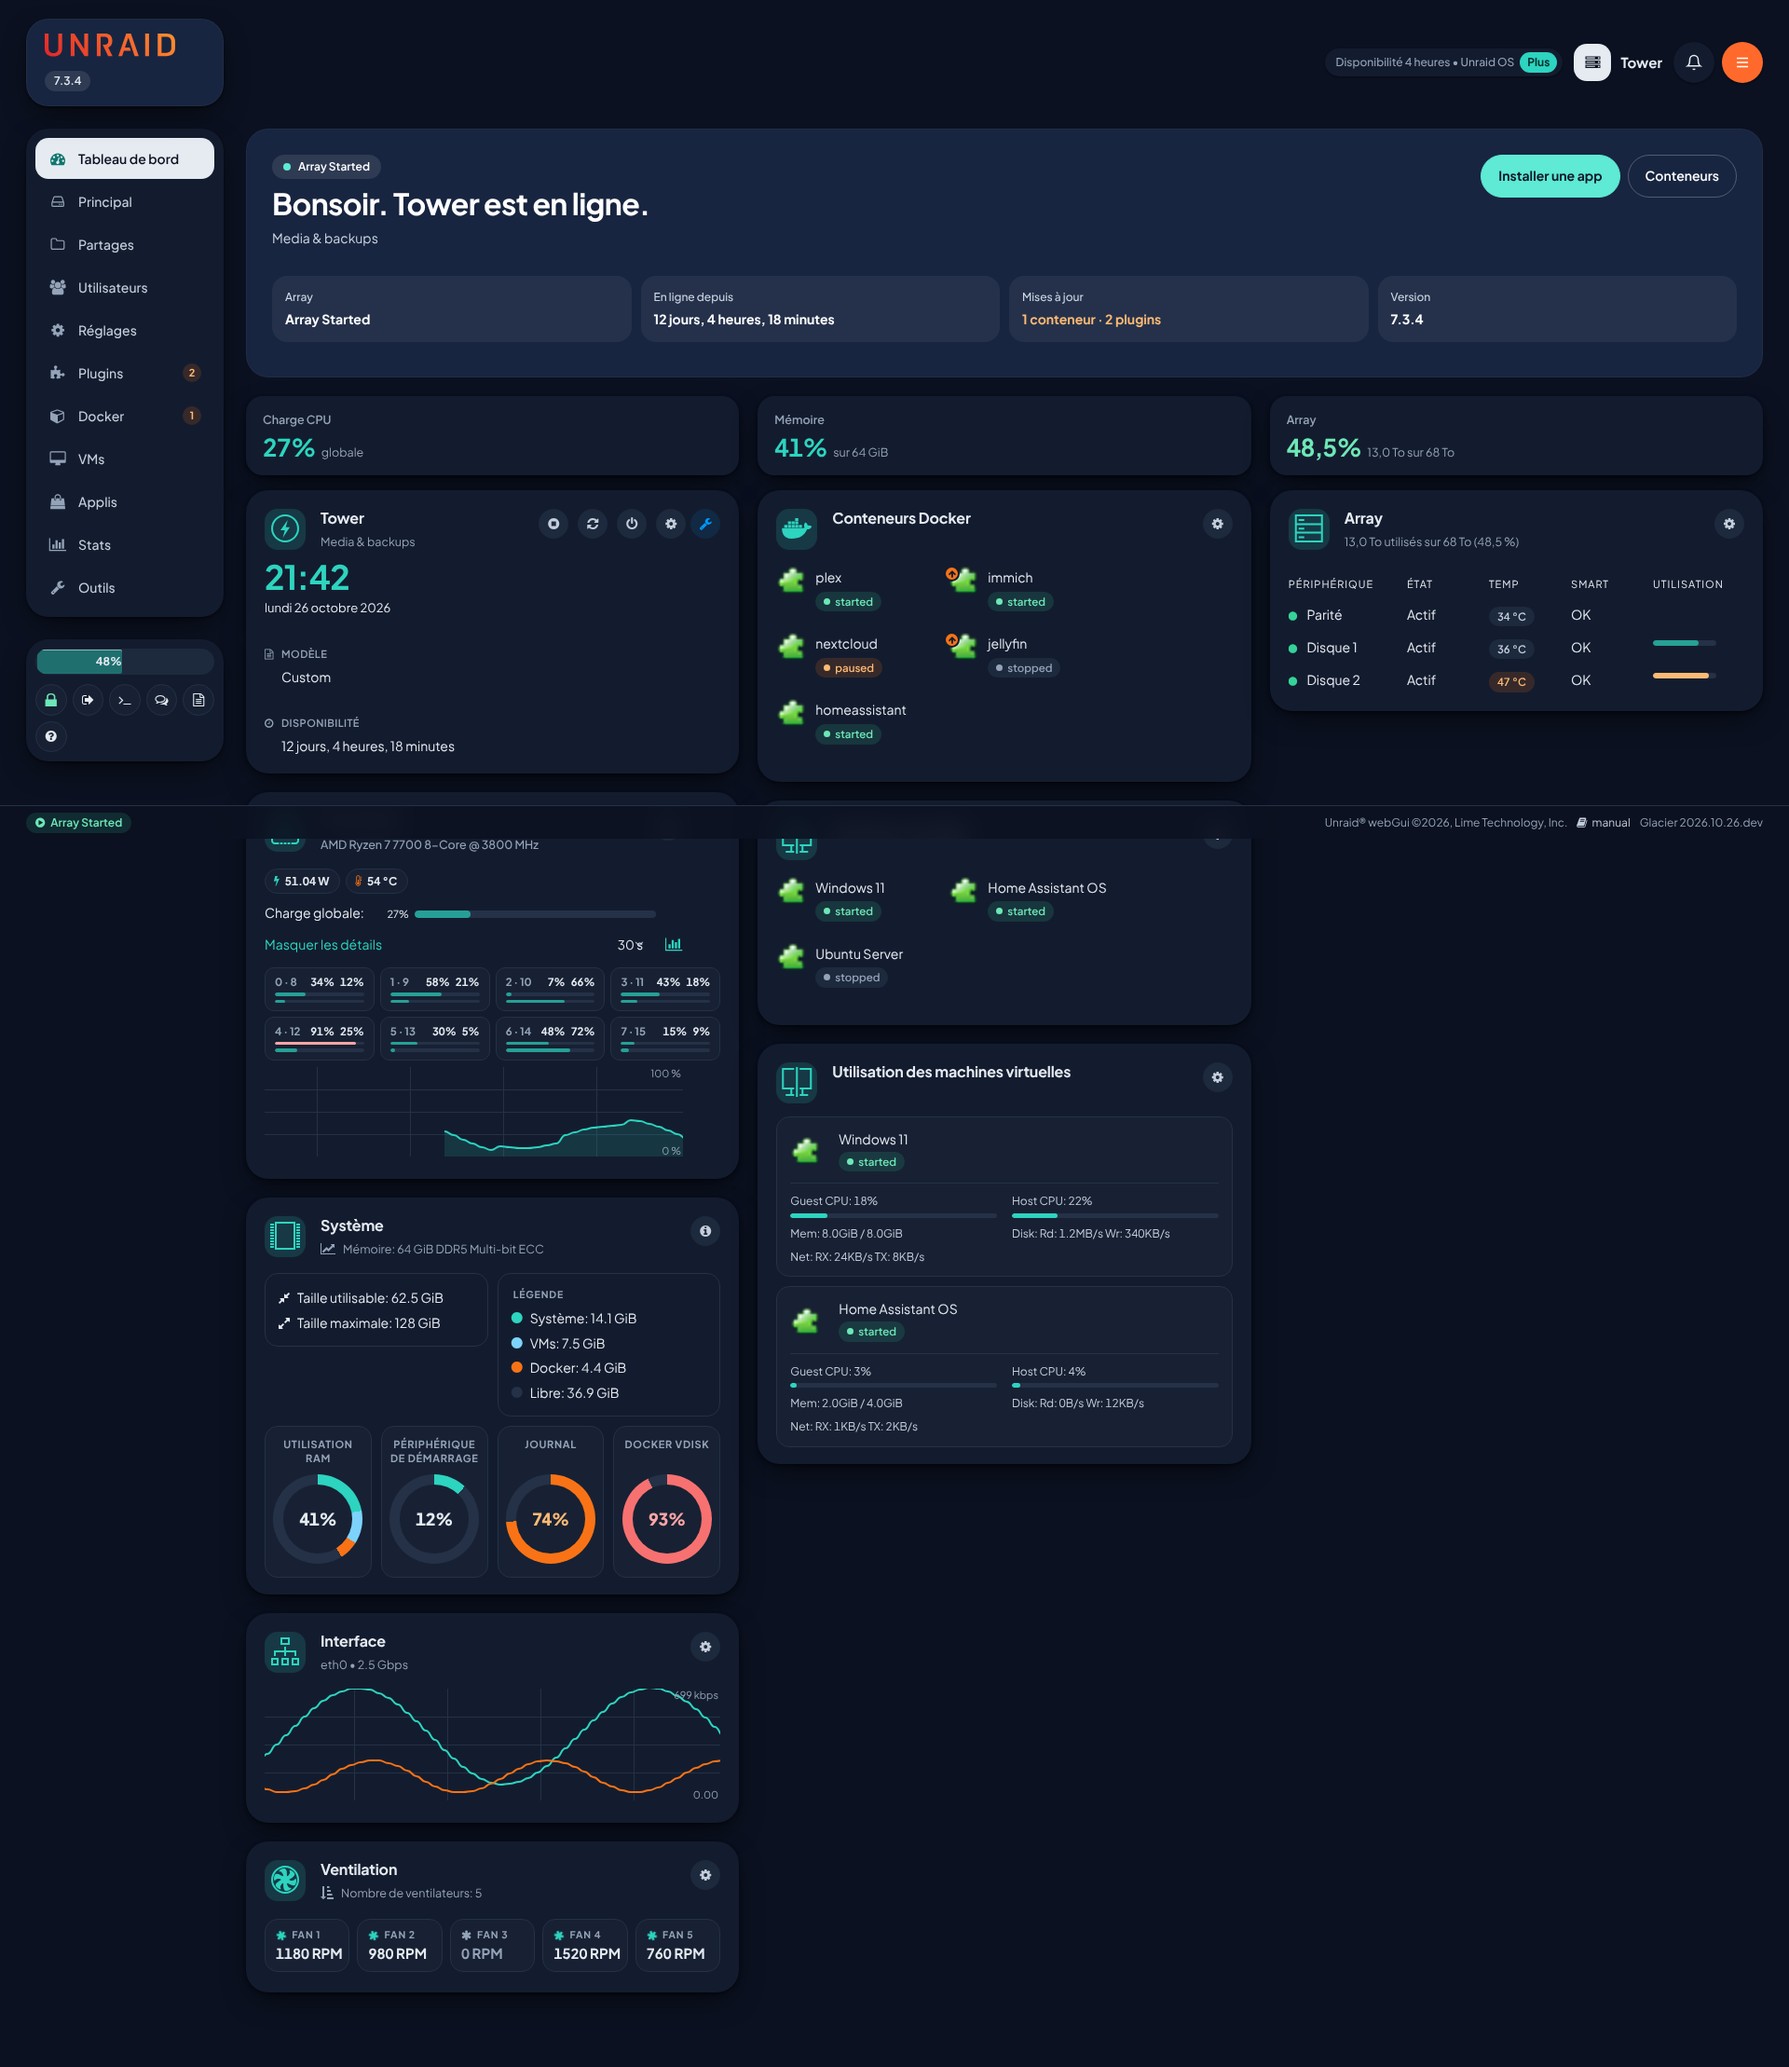
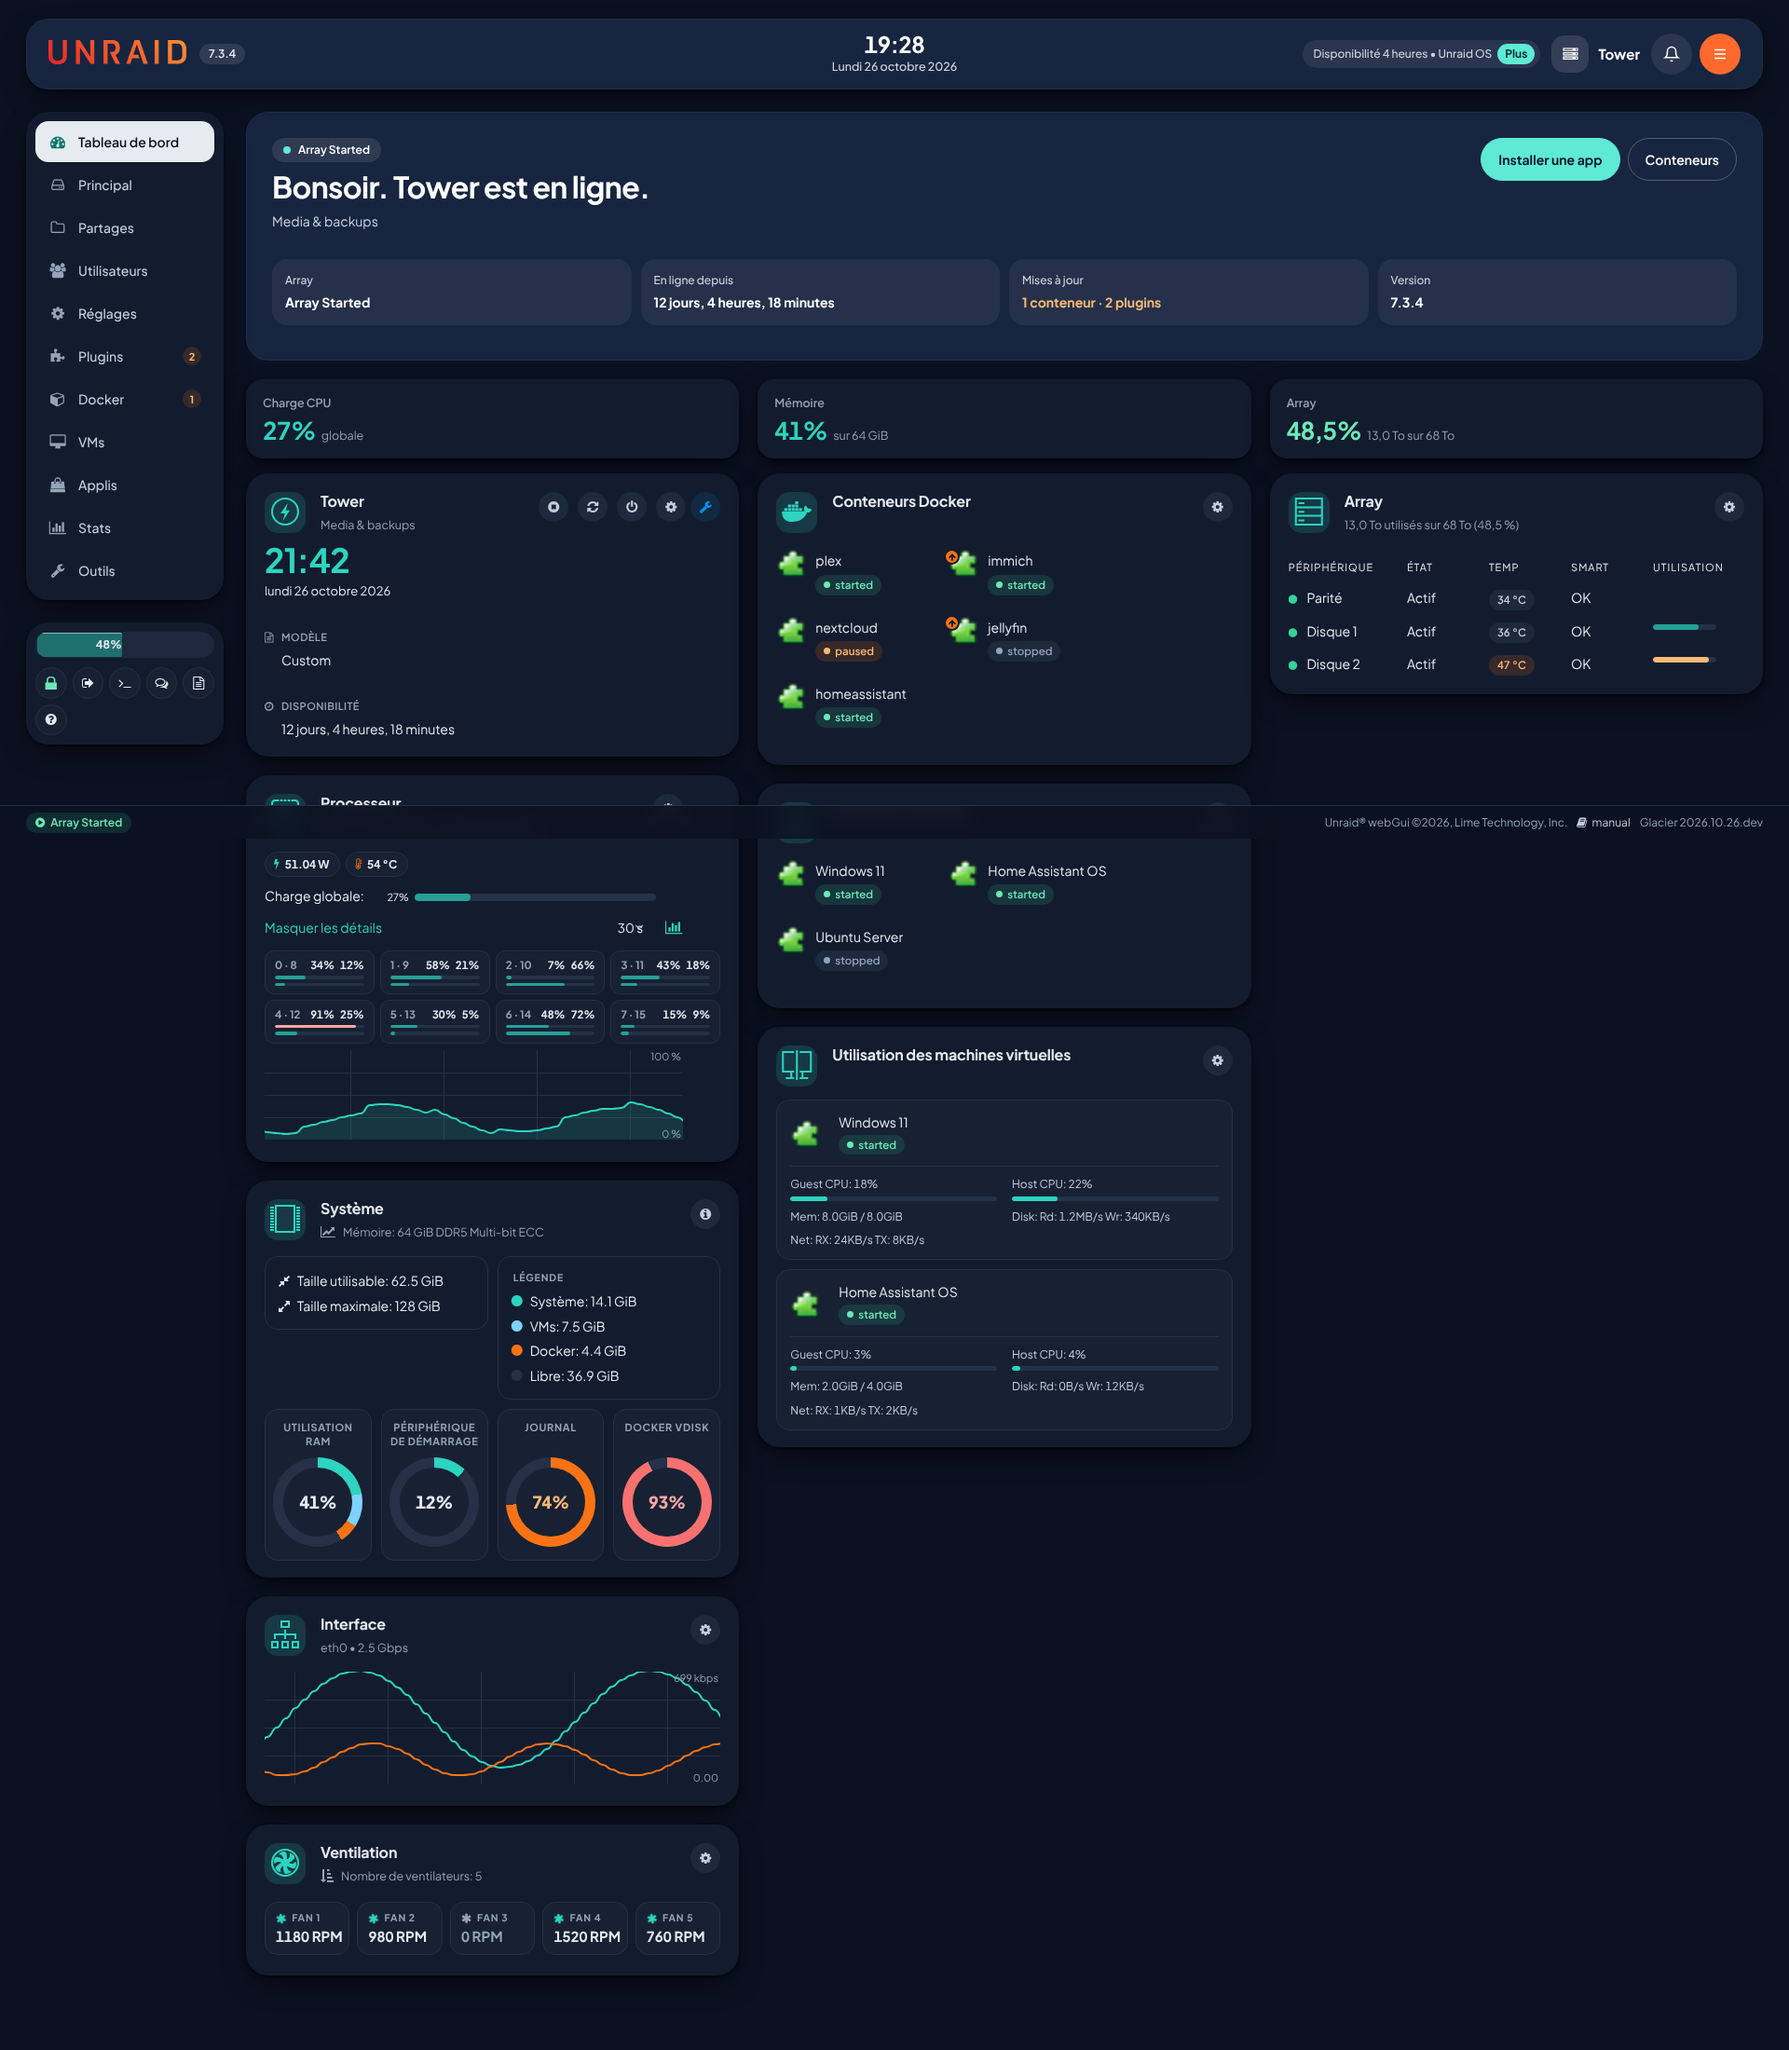
Header as a full-width dark card with date and time
- #header becomes a dark card across the page: logo and version on the
  left, Unraid's profile restyled for the dark surface on the right.
- scripts/glacier.js adds a live clock (browser time, webGUI language)
  centred in the card on windows 1280px and wider.

Claude-Session: https://claude.ai/code/session_01HuQUwCrSJ7D1ViuYVCkmn6

diff --git a/plugin/src/styles/glacier.css b/plugin/src/styles/glacier.css
@@ -529,8 +529,6 @@ html.glacier #UserProfile > div:last-of-type > span[role="button"] svg[data-slot
 
 /* "Show banner" in Display Settings: the banner becomes a rounded band with light text. */
 html.glacier #header.image {
-    margin: 1.2rem 2.8rem 0;
-    width: auto;
     border-radius: var(--gl-r-xl);
     background: linear-gradient(90deg, rgba(15, 23, 42, 0.72), rgba(15, 23, 42, 0.2) 45%, rgba(15, 23, 42, 0.72)),
         var(--customer-header-background-image) center / cover no-repeat var(--gl-ink);
@@ -1832,14 +1830,31 @@ html.glacier .gl-hero-facts dd.is-warn {
 }
 
 /* ==========================================================================
-   Logo and version in a dark card (on wide screens exactly above the menu card)
+   Header as a dark card across the page: logo and version on the left, date and time in
+   the middle (scripts/glacier.js), Unraid's profile (licence, server, notifications, menu)
+   on the right, restyled for the dark surface.
    ========================================================================== */
-html.glacier #header unraid-header-os-version > div {
+html.glacier #header {
     box-sizing: border-box;
-    padding: 1rem 1.2rem 1rem 1.6rem;
-    border-radius: var(--gl-r-lg);
+    width: auto;
+    min-height: 0;
+    margin: 2rem 2.8rem 2.4rem;
+    padding: 1.6rem 2.4rem;
+    border-radius: var(--gl-r-xl);
+    color: #ffffff;
     background: var(--gl-hero-bg);
     box-shadow: var(--gl-shadow-md), inset 0 0 0 1px rgba(255, 255, 255, 0.04);
+}
+
+html.glacier #header unraid-header-os-version > div {
+    flex-direction: row;
+    align-items: center;
+    gap: 1.4rem;
+}
+
+html.glacier #header unraid-header-os-version > div > a :is(svg, img) {
+    width: auto;
+    height: 2.6rem;
 }
 
 /* The theme-coloured logo option (Display Settings) draws in currentColor: white on the card. */
@@ -1858,29 +1873,106 @@ html.glacier #header unraid-header-os-version span[role="button"][aria-haspopup]
     background: rgba(255, 255, 255, 0.18);
 }
 
-/* Wide screens: as wide as the sidebar, the logo large and the version under it. */
-@media (min-width: 1024px) {
+/* Date and time */
+html.glacier #header .gl-clock {
+    display: flex;
+    flex: 1 1 auto;
+    flex-direction: column;
+    align-items: center;
+    justify-content: center;
+    gap: 0.2rem;
+    min-width: 0;
+    padding: 0 1.6rem;
+    text-align: center;
+    pointer-events: none;
+}
+
+html.glacier #header .gl-clock-time {
+    color: #ffffff;
+    font-size: 2.4rem;
+    font-weight: 700;
+    letter-spacing: -0.02em;
+    line-height: 1.1;
+    font-variant-numeric: tabular-nums;
+}
+
+html.glacier #header .gl-clock-date {
+    color: #cbd5e1;
+    font-size: 1.25rem;
+    font-weight: 500;
+    white-space: nowrap;
+}
+
+/* Profile on the dark card */
+html.glacier #header #UserProfile > div:first-of-type {
+    color: #cbd5e1;
+    background: rgba(255, 255, 255, 0.08);
+    box-shadow: none;
+}
+
+html.glacier #header #UserProfile > div:first-of-type em {
+    color: #042f2e;
+    background: var(--gl-accent-bright);
+}
+
+html.glacier #header #UserProfile > div:last-of-type > div:first-child::before {
+    color: #ffffff;
+    background: rgba(255, 255, 255, 0.12);
+}
+
+html.glacier #header #UserProfile > div:last-of-type > div:first-child > span:last-child {
+    color: #ffffff;
+}
+
+html.glacier #header #UserProfile > div:last-of-type > div:first-child > span:first-child:not(:last-child) {
+    color: #cbd5e1;
+}
+
+html.glacier #header #UserProfile > div:last-of-type > span[role="button"] {
+    color: #ffffff;
+    background: rgba(255, 255, 255, 0.08);
+    box-shadow: none;
+}
+
+html.glacier #header #UserProfile > div:last-of-type > span[role="button"]:hover,
+html.glacier #header #UserProfile > div:last-of-type > span[role="button"][data-state="open"] {
+    color: var(--gl-accent-bright);
+    background: rgba(255, 255, 255, 0.14);
+    box-shadow: 0 0 0 3px rgba(255, 255, 255, 0.08);
+}
+
+/* An avatar picture keeps its own colours. */
+html.glacier #header #UserProfile > div:last-of-type > span[role="button"]:has(img) {
+    background: transparent;
+}
+
+@media (max-width: 1023px) {
     html.glacier #header {
-        min-height: 0;
-        padding-top: 2rem;
-        padding-bottom: 2.4rem;
+        margin: 1.2rem 1.6rem 1.6rem;
+        padding: 1.2rem 1.6rem;
+        border-radius: var(--gl-r-lg);
+    }
+}
+
+/* The clock sits exactly in the middle of the card; narrower windows have no room for it
+   between the logo and the profile. */
+@media (min-width: 1280px) {
+    html.glacier #header {
+        position: relative;
     }
 
-    html.glacier #header unraid-header-os-version > div {
-        flex-direction: column;
-        align-items: flex-start;
-        justify-content: center;
-        gap: 1.2rem;
-        width: 21.2rem;
-        min-height: 10.4rem;
-        padding: 2.6rem 2rem 2rem;
-        border-radius: var(--gl-r-xl);
+    html.glacier #header .gl-clock {
+        position: absolute;
+        top: 50%;
+        left: 50%;
+        padding: 0;
+        transform: translate(-50%, -50%);
     }
+}
 
-    html.glacier #header unraid-header-os-version > div > a :is(svg, img) {
-        width: 100%;
-        max-width: 17rem;
-        height: auto;
+@media (max-width: 1279px) {
+    html.glacier #header .gl-clock {
+        display: none;
     }
 }
 
@@ -2367,7 +2459,7 @@ html.glacier .clipboard-tooltip {
    ========================================================================== */
 @media (max-width: 767px) {
     html.glacier #header {
-        padding: 0 1.6rem;
+        padding: 1.2rem 1.6rem;
     }
 
     html.glacier #menu {

diff --git a/plugin/src/scripts/glacier.js b/plugin/src/scripts/glacier.js
@@ -213,7 +213,36 @@
     footer.append(link);
   }
 
+  // ---- Date and time in the middle of the header card -----------------------------------
+  // The browser's clock, in the webGUI's language; refreshed when the minute changes.
+  function addClock() {
+    var header = document.getElementById('header');
+    if (!header || header.querySelector('.gl-clock')) return;
+    var locale = root.getAttribute('lang') || undefined;
+    var clock = el('div', 'gl-clock');
+    clock.setAttribute('aria-hidden', 'true');
+    var time = el('span', 'gl-clock-time');
+    var date = el('span', 'gl-clock-date');
+    clock.append(time, date);
+    var logo = header.querySelector('unraid-header-os-version');
+    if (logo) logo.after(clock); else header.prepend(clock);
+    function tick() {
+      var now = new Date();
+      try {
+        time.textContent = now.toLocaleTimeString(locale, { hour: '2-digit', minute: '2-digit' });
+        var text = now.toLocaleDateString(locale, { weekday: 'long', day: 'numeric', month: 'long', year: 'numeric' });
+        date.textContent = text.charAt(0).toUpperCase() + text.slice(1);
+      } catch (error) {
+        time.textContent = now.toTimeString().slice(0, 5);
+        date.textContent = now.toDateString();
+      }
+      setTimeout(tick, 60000 - (now.getSeconds() * 1000 + now.getMilliseconds()) + 50);
+    }
+    tick();
+  }
+
   markMenuCounts();
+  addClock();
   addCredit();
   buildHero();
   watchBadges();

diff --git a/plugin/build.py b/plugin/build.py
@@ -79,6 +79,9 @@ plg = f"""<?xml version='1.0' standalone='yes'?>
 
 <CHANGES>
 ###{version}
+- The header is a dark card across the page: logo and version on the left, date and time in the middle, licence, server, notifications and menu on the right.
+
+###2026.10.26.1923
 - More room inside the Unraid card, above the logo and under the version.
 
 ###2026.10.26.1913
